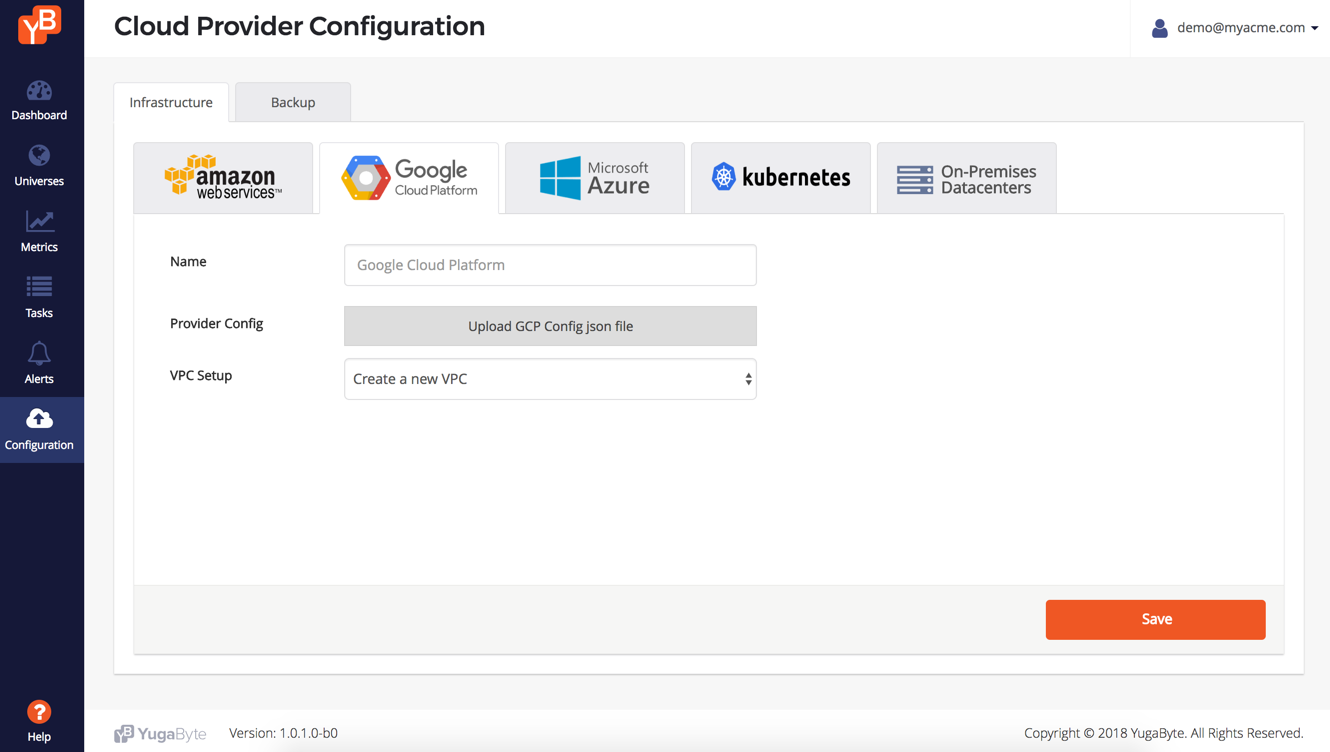
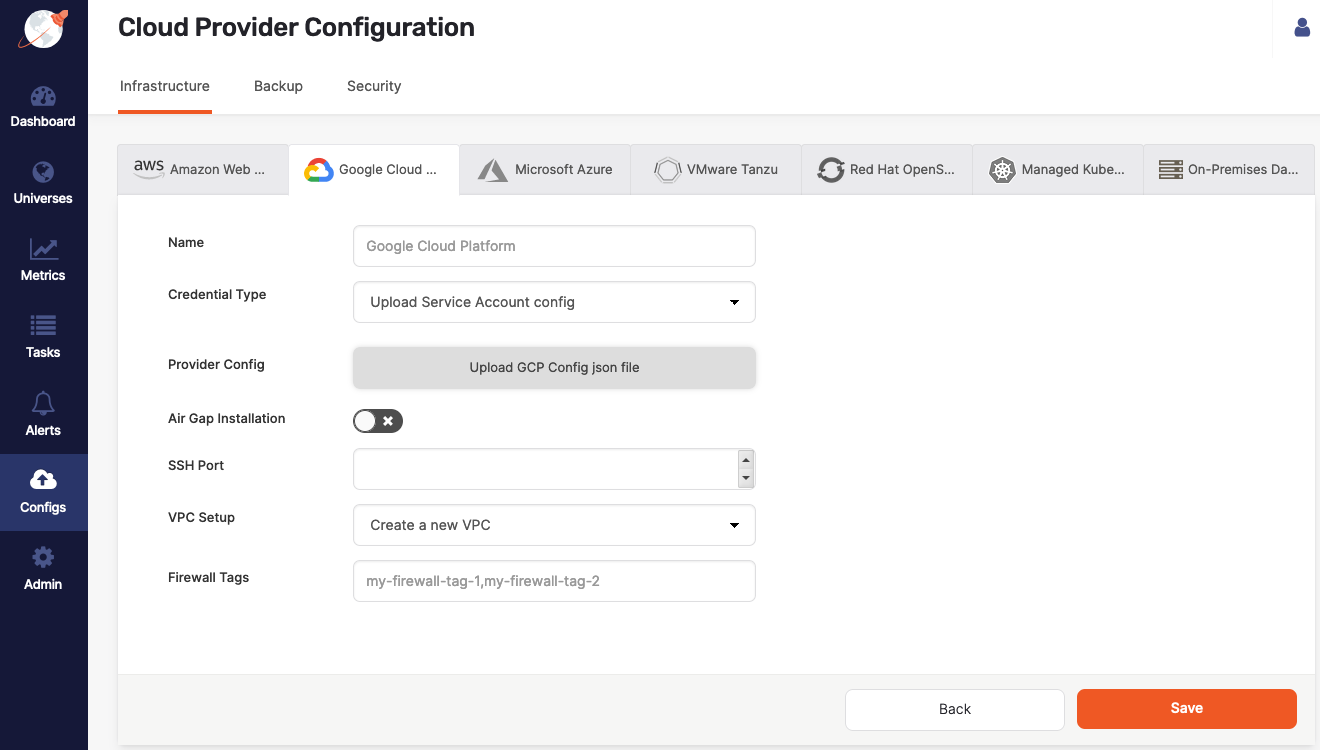
Added content

diff --git a/docs/content/latest/yugabyte-platform/configure-yugabyte-platform/set-up-cloud-provider/gcp.md b/docs/content/latest/yugabyte-platform/configure-yugabyte-platform/set-up-cloud-provider/gcp.md
@@ -65,9 +65,7 @@ showAsideToc: true
 
 </ul>
 
-You can configure Google Cloud Platform (GCP) for YugabyteDB clusters using the Yugabyte Platform console. If no cloud providers are configured yet, the main Dashboard page highlights the need to configure at least one cloud provider, as per the following illustration:
-
-![Configure Cloud Provider](/images/ee/configure-cloud-provider.png)
+You can configure Google Cloud Platform (GCP) for YugabyteDB clusters using the Yugabyte Platform console. If no cloud providers are configured yet, the main Dashboard page prompts you to configure at least one cloud provider.
 
 ## Prerequisites
 
@@ -75,33 +73,35 @@ To run YugabyteDB nodes on GCP, all you need to provide on the Yugabyte Platform
 
 ## Configure GCP
 
-To start, navigate to **Configuration > GCP**, as per the following illustration:
+You can configure GCP as follows: 
 
-![GCP Configuration -- empty](/images/ee/gcp-setup/gcp-configure-empty.png)
+- Navigate to **Configs > Google Cloud Platform**.
 
-Complete the fields, as per the following illustration:
+- Click **Add Configuration** to open the **Cloud Provider Configuration** page shown in the following illustration:<br><br>
 
-![GCP Configuration -- full](/images/ee/gcp-setup/gcp-configure-full.png)
+  ![GCP Configuration empty](/images/ee/gcp-setup/gcp-configure-empty.png)
 
-Take note of the following for configuring your GCP provider:
+- Complete the fields, keeping in mind the following guidelines:
+  - Supply a descriptive name that preferably contains Google or GCP, which is especially important if you are planning to configure other providers.
 
-- Supply a descriptive name that preferably contains Google or GCP, which is especially important if you are planning to configure other providers.
+  - Upload the JSON file that you obtained when you created your service account, as described in [Prepare the Google Cloud Platform (GCP) environment](../../../install-yugabyte-platform/prepare-environment/gcp).
 
-- Upload the JSON file that you obtained when you created your service account, as described in [Prepare the Google Cloud Platform (GCP) environment](../../../install-yugabyte-platform/prepare-environment/gcp).
+  - If this is a new deployment, it is recommended that you use the **VPC Setup** field to create a new VPC specifically for YugabyteDB nodes. You have to ensure that the Yugabyte Platform host machine can connect to your Google Cloud account where this new VPC will be created. 
 
-- If this is a new deployment, it is recommended that you create a new VPC specifically for YugabyteDB nodes. You have to ensure that the Yugabyte Platform host machine can connect to your Google Cloud account where this new VPC will be created. Otherwise, you may choose to specify an existing VPC for YugabyteDB nodes. The third option that is available only when your Yugabyte Platform host machine is also running on Google Cloud, is to use the same VPC on which the Yugabyte Platform host machine runs.
+    <br>Alternatively, you may choose to specify an existing VPC for YugabyteDB nodes, in which case you would need to map regions by providing the following: 
 
-  Note that choosing to use the same VPC as Yugabyte Platform is an advanced option, which assumes that you are in complete control over this VPC and will be responsible for setting up the networking, SSH access, and firewall rules for it.
+    - A region name.
+    - A subnet ID.
+    - Optionally, a custom machine image. Yugabyte Platform allows you to bring up universes on Ubuntu 18.04 host nodes, assuming you have Python 2 or later installed on the host, as well as the provider created with a custom AMI and custom user (ubuntu).
 
+    The third option that is available only when your Yugabyte Platform host machine is also running on Google Cloud, is to use the same VPC on which the Yugabyte Platform host machine runs. Note that choosing to use the same VPC as Yugabyte Platform is an advanced option, which assumes that you are in complete control over this VPC and will be responsible for setting up the networking, SSH access, and firewall rules for it.
 
-Click **Save** and wait a few minutes for the configuration to complete. This includes generating a new VPC, a network, subnetworks in all available regions, as well as a new firewall rule, VPC peering for network connectivity, and a custom SSH key pair for Yugabyte Platform-to-YugabyteDB connectivity.
+- Click **Save** and wait for the configuration to complete. 
 
-The following illustration shows the steps involved in creating GCP:
+  This process includes generating a new VPC, a network, subnetworks in all available regions, as well as a new firewall rule, VPC peering for network connectivity, and a custom SSH key pair for Yugabyte Platform-to-YugabyteDB connectivity.
 
-![GCP Configuration -- in progress](/images/ee/gcp-setup/gcp-configure-inprogress.png)
+Upon completion, you should see the configuration similar to the following:
 
-Upon completion, you should see the following:
-
-![GCP Configuration -- success](/images/ee/gcp-setup/gcp-configure-success.png)
+![GCP Configuration success](/images/ee/gcp-setup/gcp-configure-success.png)
 
 Now you are ready to create a YugabyteDB universe on GCP.
